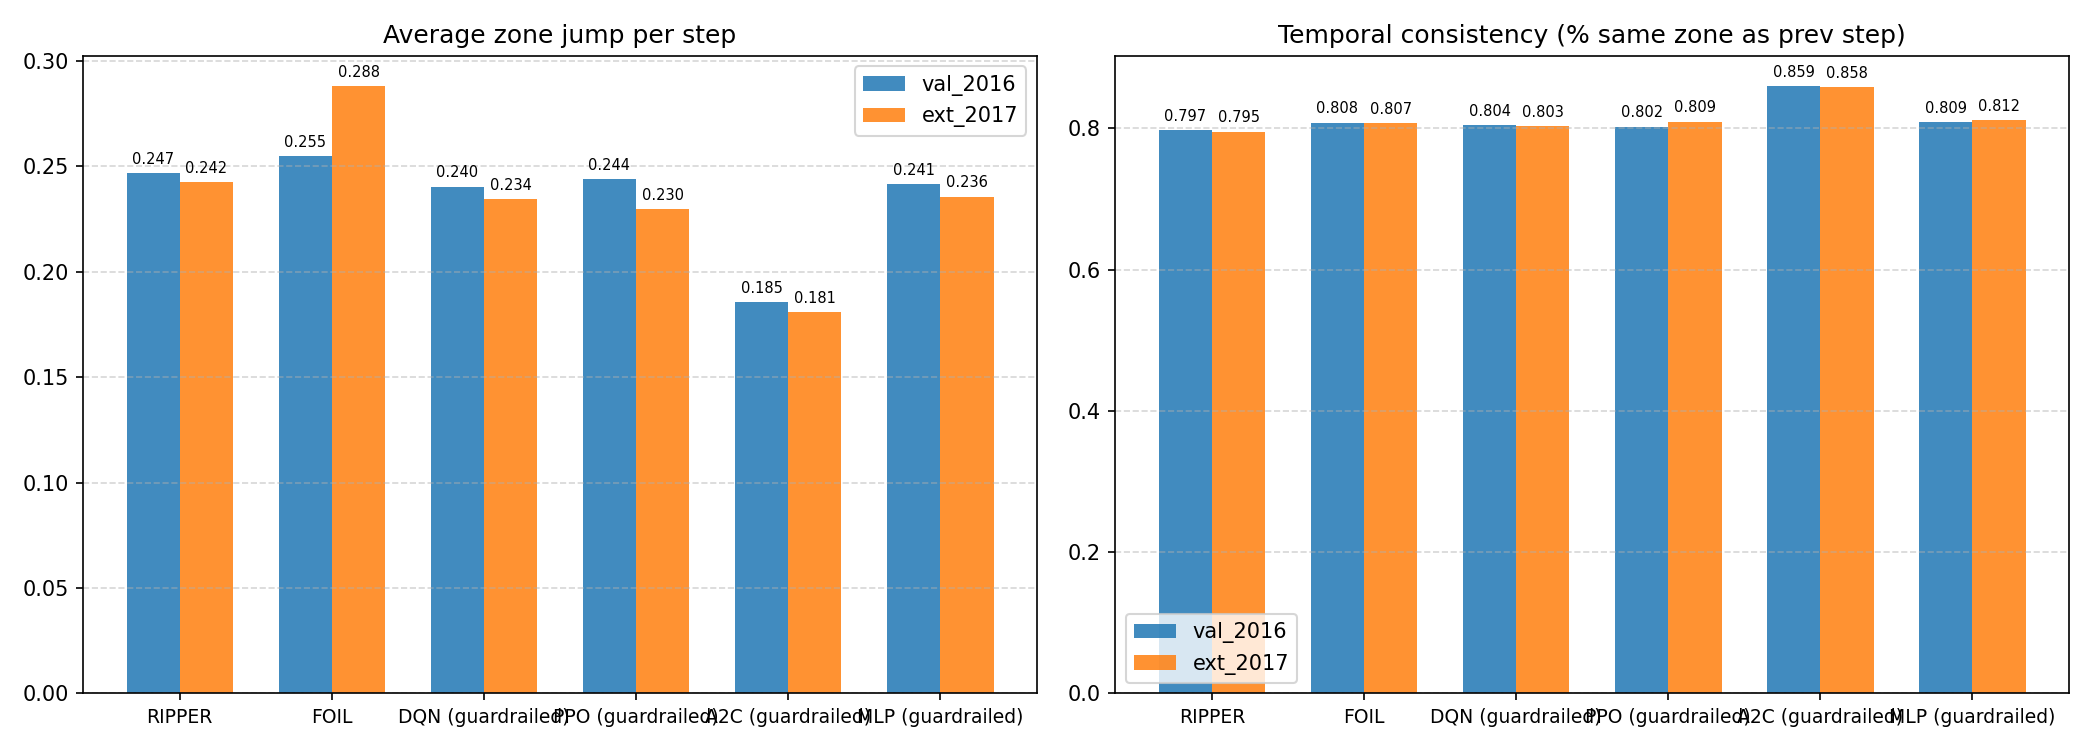
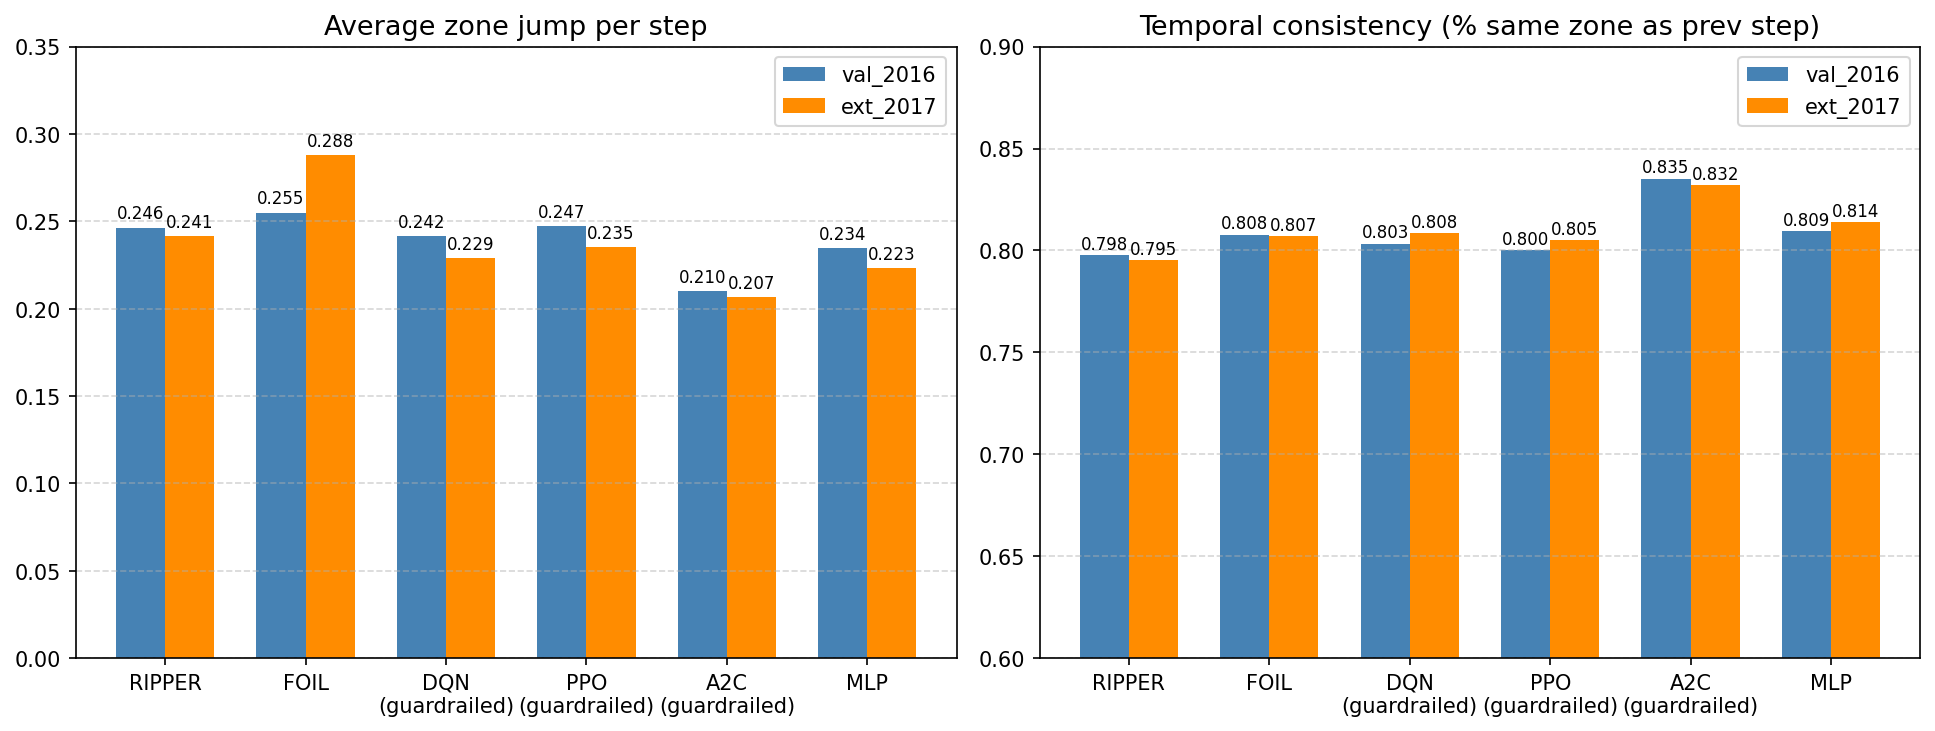
fixes to figures

diff --git a/chapter4.tex b/chapter4.tex
@@ -189,6 +189,18 @@ Both meta-models are trained on the 2016 training set and evaluated on the 2017 
 test set of 52,234 readings. The three evaluation metrics are: total readings flagged for
 review, recall for the underlying model's errors (the fraction of errors flagged), and
 false alarms (readings flagged but correctly classified by the underlying model).
+Figure~\ref{fig:ch4:pipelines} illustrates the complete flow of both pipelines.
+
+\begin{figure}[h]
+\centering
+\includegraphics[width=\textwidth]{figs/pipeline_comparison.png}
+\caption{Deployment pipeline comparison. Pipeline~A (left) uses RIPPER directly and
+flags uncertain predictions with a Random Forest meta-model. Pipeline~B (right) first
+corrects RIPPER errors with DQN and physics guardrails, then applies a LightGBM
+meta-model to catch residual errors. Pipeline~B reduces flagged readings from 8.0\% to
+2.3\% while improving error recall from 90.8\% to 98.9\%.}
+\label{fig:ch4:pipelines}
+\end{figure}
 
 \section{Results}
 \label{sec:ch4:results}
@@ -235,22 +247,20 @@ FOIL (Chapter~3)       & 92.3\%  & 91.4\%  & 0.897 & 0.896 \\
 
 \begin{figure}[h]
 \centering
-\begin{minipage}{0.48\textwidth}
-  \centering
-  \includegraphics[width=\textwidth]{figs/comparison_accuracy.png}
-  \caption*{Accuracy}
-\end{minipage}
-\hfill
-\begin{minipage}{0.48\textwidth}
-  \centering
-  \includegraphics[width=\textwidth]{figs/comparison_f1.png}
-  \caption*{Macro-F1}
-\end{minipage}
-\caption{Classification accuracy (left) and macro-averaged F1 score (right) for all
-models on the 2016 validation set and 2017 external test set. The Random Forest on raw
-SCADA signals achieves 100\% accuracy and F1 of 1.000 on both sets. Among DRL agents,
-DQN with guardrails performs best.}
-\label{fig:ch4:comparison}
+\includegraphics[width=0.92\textwidth]{figs/comparison_accuracy.png}
+\caption{Classification accuracy for all models on the 2016 validation set and 2017
+external test set. The Random Forest on four raw SCADA signals achieves 100\% on both
+sets. Among DRL agents, DQN with guardrails leads at 97.7\% on the external test.}
+\label{fig:ch4:accuracy}
+\end{figure}
+
+\begin{figure}[h]
+\centering
+\includegraphics[width=0.92\textwidth]{figs/comparison_f1.png}
+\caption{Macro-averaged F1 scores for all models on the 2016 validation set and 2017
+external test set. The macro-F1 pattern mirrors the accuracy results, with A2C without
+guardrails showing a particularly low F1 due to its near-zero recall on Zone~8.}
+\label{fig:ch4:f1}
 \end{figure}
 
 Among the DRL agents, DQN with guardrails achieves the best performance: 97.3\% accuracy
@@ -353,12 +363,22 @@ to be too small relative to the accuracy reward to produce a noticeable smoothin
 
 \begin{figure}[h]
 \centering
-\includegraphics[width=0.85\textwidth]{figs/comparison_transitions.png}
-\caption{Average zone jump per timestep for all DRL agents and the MLP on the 2016
-validation set. All models show similar values in the range 0.18--0.25, indicating
-that the smoothness penalty in the DRL reward function did not produce a noticeable
-advantage over the memoryless MLP baseline.}
-\label{fig:ch4:transitions}
+\includegraphics[width=0.90\textwidth]{figs/avg_zone_jump.png}
+\caption{Average zone jump per timestep for all models on the 2016 validation set and
+2017 external test set. All models fall in the range 0.18--0.29, indicating similar
+smoothness regardless of algorithm type. The smoothness penalty in the DRL reward
+function did not produce a clear advantage over the memoryless MLP.}
+\label{fig:ch4:avgjump}
+\end{figure}
+
+\begin{figure}[h]
+\centering
+\includegraphics[width=0.90\textwidth]{figs/temporal_consistency.png}
+\caption{Temporal consistency (fraction of timesteps where the prediction matches the
+previous prediction) for all models on both evaluation sets. A2C with guardrails shows
+the highest consistency, but this reflects its tendency to predict the same common zone
+repeatedly rather than accurately tracking zone transitions.}
+\label{fig:ch4:consistency}
 \end{figure}
 
 A2C without guardrails shows the lowest average jump (0.18) but also the lowest accuracy.

diff --git a/chapter3.tex b/chapter3.tex
@@ -271,22 +271,20 @@ engagement band from adjacent zones using discretized bin features.
 
 \begin{figure}[h]
 \centering
-\begin{minipage}{0.48\textwidth}
-  \centering
-  \includegraphics[width=\textwidth]{figs/cm_ripper_2016.png}
-  \caption*{RIPPER (2016 validation)}
-\end{minipage}
-\hfill
-\begin{minipage}{0.48\textwidth}
-  \centering
-  \includegraphics[width=\textwidth]{figs/cm_foil_2016.png}
-  \caption*{FOIL (2016 validation)}
-\end{minipage}
-\caption{Confusion matrices for RIPPER (left) and FOIL (right) on the 2016 internal
-validation set (10,466 samples). Strong diagonal dominance indicates correct
-classification across most zones. The main confusion occurs near the Zone~5/6 boundary
-for both classifiers.}
-\label{fig:ch3:cm_2016}
+\includegraphics[width=0.70\textwidth]{figs/cm_ripper_2016.png}
+\caption{Confusion matrix for RIPPER on the 2016 internal validation set (10,466
+samples). Strong diagonal dominance indicates correct classification across most zones.
+The main confusion occurs near the Zone~5/6 boundary.}
+\label{fig:ch3:cm_ripper_2016}
+\end{figure}
+
+\begin{figure}[h]
+\centering
+\includegraphics[width=0.70\textwidth]{figs/cm_foil_2016.png}
+\caption{Confusion matrix for FOIL on the 2016 internal validation set (10,466 samples).
+FOIL shows a more conservative pattern on Zone~5 than RIPPER, correctly predicting fewer
+Zone~5 observations but with higher precision.}
+\label{fig:ch3:cm_foil_2016}
 \end{figure}
 
 FOIL achieves 92.3\% accuracy and a macro-F1 of 0.897 on the same validation set. Its
@@ -352,22 +350,20 @@ sensitive to small shifts in the data distribution between years.
 
 \begin{figure}[h]
 \centering
-\begin{minipage}{0.48\textwidth}
-  \centering
-  \includegraphics[width=\textwidth]{figs/per_zone_f1_2016.png}
-  \caption*{2016 validation}
-\end{minipage}
-\hfill
-\begin{minipage}{0.48\textwidth}
-  \centering
-  \includegraphics[width=\textwidth]{figs/per_zone_f1_2017.png}
-  \caption*{2017 external test}
-\end{minipage}
-\caption{Per-zone F1 scores for RIPPER and FOIL on the 2016 validation set (left) and
-2017 external test set (right). Zone~6 (generator engagement) shows the lowest F1 for
-both classifiers on both evaluation sets, consistent with the difficulty of separating
-the narrow RPM band using discretized bin features.}
-\label{fig:ch3:perzone_f1}
+\includegraphics[width=0.90\textwidth]{figs/per_zone_f1_2016.png}
+\caption{Per-zone F1 scores for RIPPER and FOIL on the 2016 internal validation set.
+Zone~6 (generator engagement) shows the lowest F1 for both classifiers, consistent with
+the difficulty of separating the narrow RPM band using discretized bin features.}
+\label{fig:ch3:perzone_f1_2016}
+\end{figure}
+
+\begin{figure}[h]
+\centering
+\includegraphics[width=0.90\textwidth]{figs/per_zone_f1_2017.png}
+\caption{Per-zone F1 scores for RIPPER and FOIL on the 2017 external test set. The
+pattern is consistent with the internal validation results, confirming that Zone~6
+remains the most challenging zone across years.}
+\label{fig:ch3:perzone_f1_2017}
 \end{figure}
 
 \section{Discussion}

diff --git a/chapter5.tex b/chapter5.tex
@@ -6,6 +6,22 @@ This chapter brings together the findings from Chapters~3 and~4 and discusses wh
 mean when considered jointly. The two studies address different aspects of the same
 problem, operational zone classification for wind turbine SCADA data, and the results
 from one study directly inform the interpretation of the other.
+Figure~\ref{fig:ch5:lifecycle} shows how both studies fit into the broader PHM digital
+twin lifecycle for a real wind turbine.
+
+\begin{figure}[h]
+\centering
+\includegraphics[width=\textwidth]{figs/lifecycle_diagram.png}
+\caption{System architecture showing how the two studies in this thesis connect to the
+PHM digital twin lifecycle of a real wind turbine. Study~1 (Paper~1, green) defines the
+zone framework and produces interpretable classification rules. Study~2 (Paper~2,
+purple) delivers accurate zone predictions that feed into zone-aware condition monitoring
+models. The operational feedback loop (grey) shows how maintenance decisions informed by
+the digital twin improve turbine operation over time. The future online DRL adaptation
+path (brown, dashed) represents the next step: allowing DQN to update its policy from
+live reward signals as the turbine ages.}
+\label{fig:ch5:lifecycle}
+\end{figure}
 
 \section{From Zone Definition to Zone Classification}
 \label{sec:ch5:foundation}